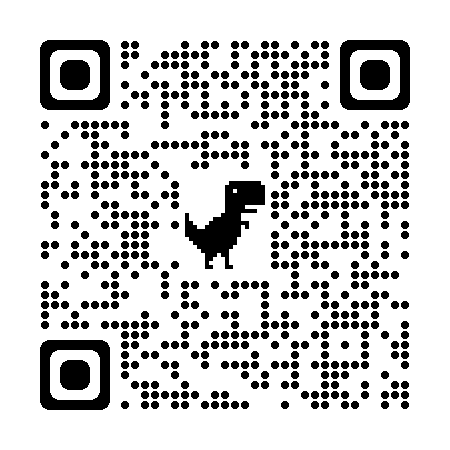
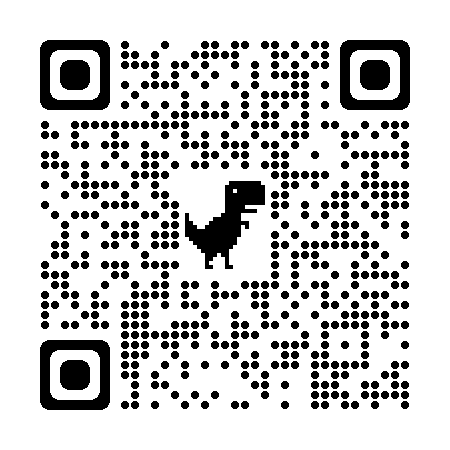
Atualizacao do site - wireframe

diff --git a/style.css b/style.css
@@ -175,6 +175,34 @@ main h2 {
     border: 0;
 }
 
+/* WireFrame */
+#wireframe {
+    padding: 50px 0px;
+    background: url(img/background.png);
+    background-size: cover;
+    background-position: center;
+}
+
+#textoWire {
+    color: #fff;
+    padding: 0px 10px;
+}
+
+#textoWire h2 {
+    margin-bottom: 10px;
+}
+
+#textoWire p {
+    margin-bottom: 40px;
+}
+
+#textoWire span {
+    display: none;
+}
+
+#qrcode {
+    display: none;
+}
 
 /* Smartphone Landscape >>>>>>>>>>>>>>>>>>>>>>>>>>>>>>>>> */
 @media (min-width: 576px) {
@@ -297,6 +325,24 @@ main h2 {
     .Flex3 {
         flex-direction: row;
         align-items: center;
+    }
+
+    /* WireFrame */
+    #wireframe {
+        background-attachment: fixed;
+    }
+
+    #wireframe span {
+        display: inline;
+    }
+
+    #qrcode {
+        display: inline;
+    }
+
+    #qrcode img {
+        width: 225px;
+        height: 225px;
     }
 
 }

diff --git a/index.html b/index.html
@@ -93,16 +93,16 @@
 
     <!-- WireFrame -->
     <section id="wireframe">
-        <div class="Container">
+        <div class="Container Flex2">
             <div id="textoWire">
                 <h2>WireFrame</h2>
                 <p>Wireframe é uma representação visual da estrutura básica de uma página. Ele deve ser feito da maneira
                     mais simples possível, mostrando apenas o essencial, como uma espécie de rascunho, sem cores ou
                     imagens. Clique no botão <span>ou escaneie o QR Code </span>  para obter o wireframe desta página.</p>
-                    <a href="wireframe.pdf" target="_blank" >PDF</a>
+                    <a href="wireframe.pdf" target="_blank" class="Botao">PDF</a>
             </div>
             <div id="qrcode">
-
+                <img src="img/qrcode.png" alt="qrcode">
             </div>
         </div>
     </section>
